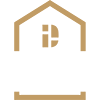
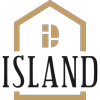
edit

diff --git a/index-en.html b/index-en.html
@@ -28,13 +28,13 @@
         <div class="container">
             <div class="header">
                 <div class="lang">
-                    <span class="fixall lang-anchor"><img src="images/en.png" alt="AR Lang">English</sapn>
-                        <div class="lang-dropdown">
-                            <a href="index.html" class="fixall lang-anchor"><img src="images/ar.png"
-                                    alt="AR Lang">العربية</a>
-                            <a href="index-en.html" class="fixall lang-anchor"><img src="images/en.png"
-                                    alt="EN Lang">English</a>
-                        </div>
+                    <span class="fixall lang-anchor"><img src="images/en.png" alt="AR Lang">English</span>
+                    <div class="lang-dropdown">
+                        <a href="index.html" class="fixall lang-anchor"><img src="images/ar.png"
+                                alt="AR Lang">العربية</a>
+                        <a href="index-en.html" class="fixall lang-anchor"><img src="images/en.png"
+                                alt="EN Lang">English</a>
+                    </div>
                 </div>
                 <div class="mo-user-nav">
                     <a href="#!" class="user-anchor mo-menu-icon fixall">
@@ -72,6 +72,7 @@
     <div class="mo-sidebar">
         <div class="sec-header">
             <span class="lnr lnr-cross close-btn"></span>
+            <a href="index.html" class="lang fixall"><img src="images/ar.png"></a>
             <ul class="mo-navbar fixall list-unstyled">
                 <li class="nav-li fixall">
                     <a href="index.html" class="nav-anchor fixall">Home</a>
@@ -111,9 +112,6 @@
                 </li>
                 <li class="nav-li fixall">
                     <a href="#!" class="nav-anchor fixall">contact us</a>
-                </li>
-                <li class="nav-li fixall lang">
-                    <a href="index.html" class="nav-anchor fixall">العربية</a>
                 </li>
             </ul>
         </div>

diff --git a/index.html b/index.html
@@ -28,11 +28,11 @@
     <div class="container">
       <div class="header">
         <div class="lang">
-          <span class="fixall lang-anchor"><img src="images/ar.png" alt="AR Lang">العربية</sapn>
-            <div class="lang-dropdown">
-              <a href="index.html" class="fixall lang-anchor"><img src="images/ar.png" alt="AR Lang">العربية</a>
-              <a href="index-en.html" class="fixall lang-anchor"><img src="images/en.png" alt="EN Lang">English</a>
-            </div>
+          <span class="fixall lang-anchor"><img src="images/ar.png" alt="AR Lang">العربية</span>
+          <div class="lang-dropdown">
+            <a href="index.html" class="fixall lang-anchor"><img src="images/ar.png" alt="AR Lang">العربية</a>
+            <a href="index-en.html" class="fixall lang-anchor"><img src="images/en.png" alt="EN Lang">English</a>
+          </div>
         </div>
         <div class="mo-user-nav">
           <a href="#!" class="user-anchor mo-menu-icon fixall">
@@ -70,6 +70,7 @@
   <div class="mo-sidebar">
     <div class="sec-header">
       <span class="lnr lnr-cross close-btn"></span>
+      <a href="index-en.html" class="lang fixall"><img src="images/en.png"></a>
       <ul class="mo-navbar fixall list-unstyled">
         <li class="nav-li fixall">
           <a href="index.html" class="nav-anchor fixall">الرئيسية</a>
@@ -109,9 +110,6 @@
         </li>
         <li class="nav-li fixall">
           <a href="#!" class="nav-anchor fixall">اتصل بنا</a>
-        </li>
-        <li class="nav-li fixall lang">
-          <a href="index-en.html" class="nav-anchor fixall">English</a>
         </li>
       </ul>
     </div>

diff --git a/css/main.css b/css/main.css
@@ -271,7 +271,7 @@ html[dir=ltr] .newsletter-input::placeholder {
   transition: all 0.3s ease-in-out;
   border-radius: 50%;
   border: none;
-  color: #2b3581;
+  color: #1a1a1a;
   background-color: transparent;
   border: none;
   font-size: 18px;
@@ -335,6 +335,22 @@ html[dir=ltr] .sec-header {
 .sec-header::-webkit-scrollbar-thumb {
   background-color: #c19c65;
 }
+.sec-header .lang {
+  display: none;
+}
+@media (max-width: 767px) {
+  .sec-header .lang {
+    display: block;
+    position: absolute;
+    top: 17px;
+    right: 25px;
+    cursor: pointer;
+  }
+  html[dir=ltr] .sec-header .lang {
+    right: auto;
+    left: 25px;
+  }
+}
 .sec-header .close-btn {
   position: absolute;
   font-size: 24px;
@@ -376,18 +392,6 @@ html[dir=ltr] .sec-header .nav-li {
 }
 .sec-header .nav-li:last-of-type {
   border-bottom: none;
-}
-.sec-header .nav-li.lang {
-  display: none !important;
-}
-@media (max-width: 767px) {
-  .sec-header .nav-li.lang {
-    display: flex !important;
-    position: relative;
-    top: auto;
-    left: auto;
-    right: auto;
-  }
 }
 .sec-header .nav-anchor {
   font-size: 16px;
@@ -651,7 +655,7 @@ html[dir=ltr] .product .mo-price {
 .loader img {
   width: 200px;
   backface-visibility: hidden;
-  margin-bottom: 25px;
+  margin-bottom: 50px;
 }
 @media (max-width: 991px) {
   .loader img {
@@ -661,14 +665,14 @@ html[dir=ltr] .product .mo-price {
 
 .load {
   height: 4px;
-  width: 400px;
+  width: 200px;
   position: relative;
   overflow: hidden;
   background-color: transparent;
 }
 @media (max-width: 767px) {
   .load {
-    width: 300px;
+    width: 100px;
   }
 }
 

diff --git a/css/sass/components/_navbar.scss b/css/sass/components/_navbar.scss
@@ -7,6 +7,8 @@
     z-index: 9999;
     background-color: rgba($black, 0.502);
     display: none;
+
+
 }
 
 .sec-header {
@@ -42,6 +44,23 @@
 
     scrollbar-width: thin;
     scrollbar-color: #c19c65 #fff;
+
+    .lang {
+        display: none;
+
+        @include xs {
+            display: block;
+            position: absolute;
+            top: 17px;
+            right: 25px;
+            cursor: pointer;
+
+            #{$ltr} & {
+                right: auto;
+                left: 25px;
+            }
+        }
+    }
 
     .close-btn {
         position: absolute;
@@ -86,18 +105,6 @@
 
         &:last-of-type {
             border-bottom: none;
-        }
-
-        &.lang {
-            display: none !important;
-
-            @include xs {
-                display: flex !important;
-                position: relative;
-                top: auto;
-                left: auto;
-                right: auto;
-            }
         }
     }
 

diff --git a/css/sass/layout/_loader.scss b/css/sass/layout/_loader.scss
@@ -15,7 +15,7 @@
     img {
         width: 200px;
         backface-visibility: hidden;
-        margin-bottom: 25px;
+        margin-bottom: 50px;
 
         @include sm {
             width: 100px;
@@ -27,13 +27,13 @@
 
 .load {
     height: 4px;
-    width: 400px;
+    width: 200px;
     position: relative;
     overflow: hidden;
     background-color: transparent;
 
     @include xs {
-        width: 300px;
+        width: 100px;
     }
 }
 

diff --git a/css/sass/components/_forms.scss b/css/sass/components/_forms.scss
@@ -165,7 +165,7 @@
     @include transition(all 0.3s ease-in-out);
     border-radius: 50%;
     border: none;
-    color: #2b3581;
+    color: #1a1a1a;
     background-color: transparent;
     border: none;
     font-size: 18px;
